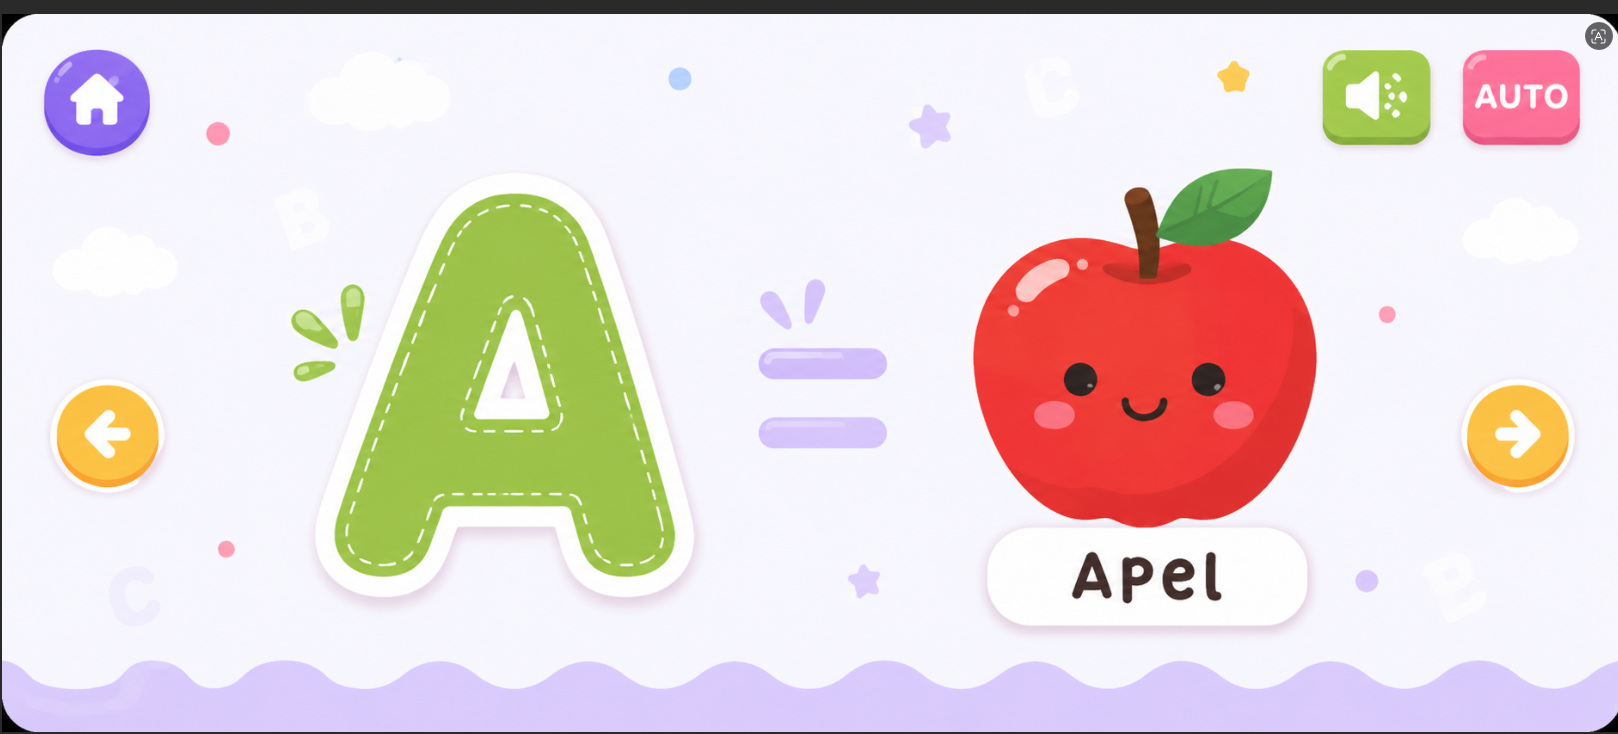
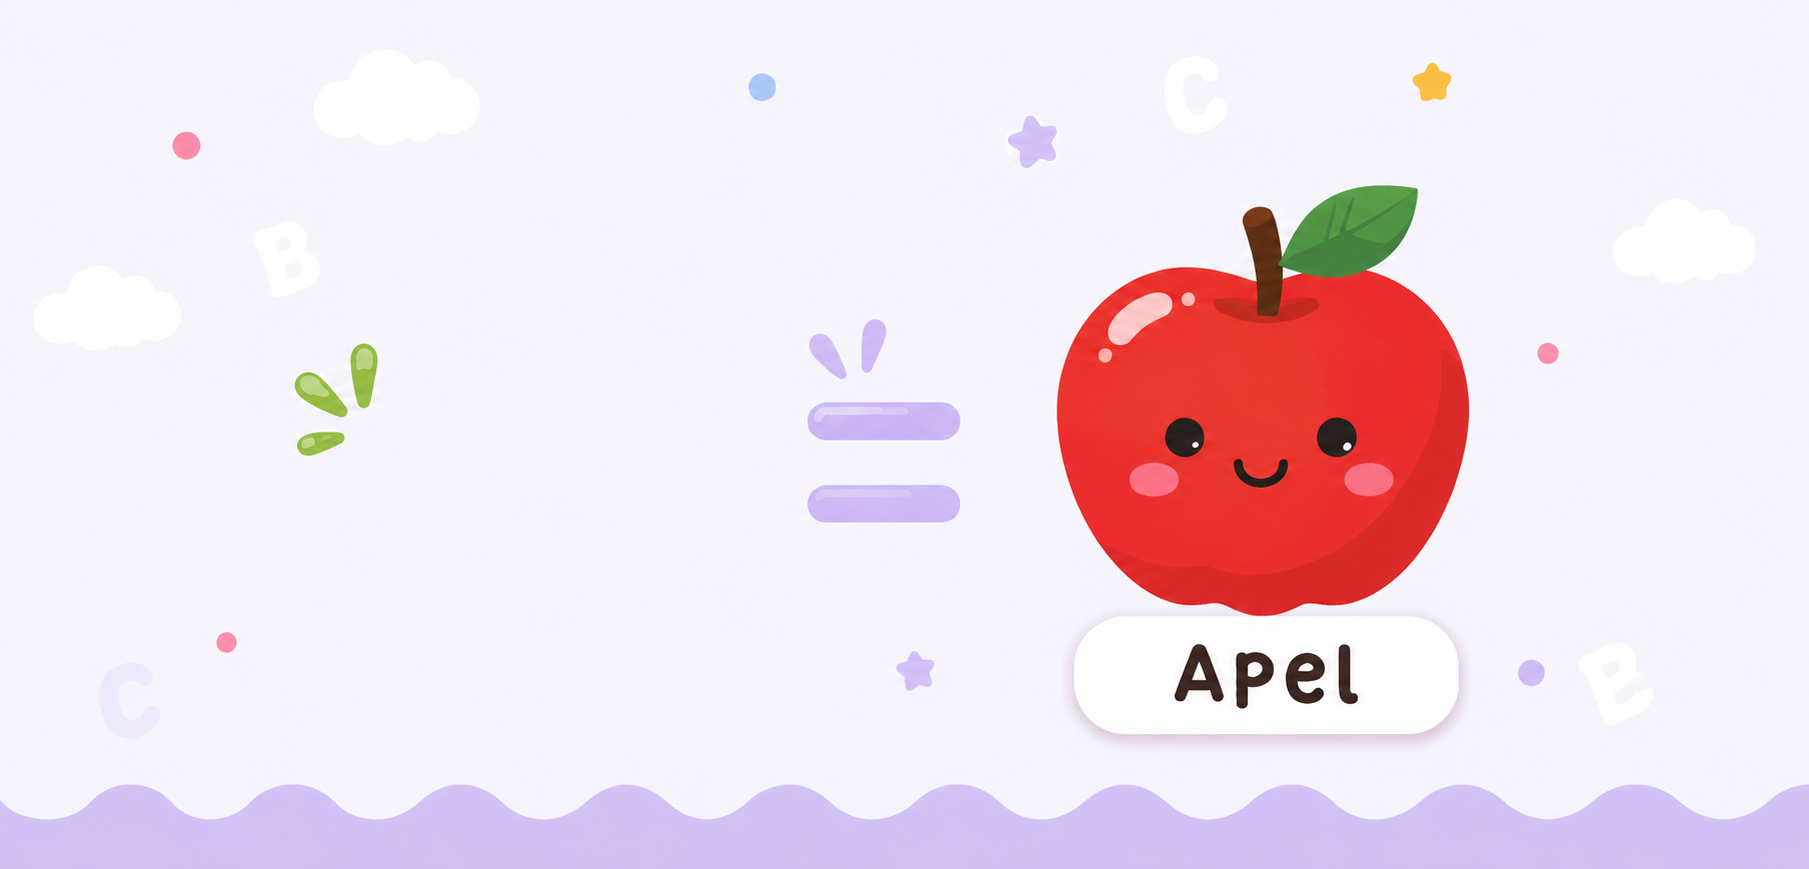
update harian

diff --git a/lib/screens/lesson/letter_lesson_screen.dart b/lib/screens/lesson/letter_lesson_screen.dart
@@ -1,4 +1,5 @@
 import 'package:flutter/material.dart';
+import 'package:flutter_svg/flutter_svg.dart';
 import 'package:flutter_tts/flutter_tts.dart';
 import '../../widgets/bounce_tap.dart';
 
@@ -19,6 +20,7 @@ class _LetterLessonScreenState extends State<LetterLessonScreen> {
       letter: 'A',
       word: 'apel',
       imageAsset: 'assets/images/letter_a_activity.png',
+      letterAsset: 'assets/images/A.svg',
     ),
     _LetterActivity(
       letter: 'B',
@@ -131,18 +133,23 @@ class _LetterLessonScreenState extends State<LetterLessonScreen> {
                 child: BounceTap(
                   semanticLabel: 'Huruf ${_currentLetter.letter}',
                   onTap: _speakCurrentLetter,
-                  child: DecoratedBox(
-                    decoration: BoxDecoration(
-                      shape: BoxShape.circle,
-                      boxShadow: [
-                        BoxShadow(
-                          color: const Color(0xFF8BC93B).withOpacity(0.16),
-                          blurRadius: 22 * scale,
-                          spreadRadius: 4 * scale,
+                  child: _currentLetter.letterAsset != null
+                      ? SvgPicture.asset(
+                          _currentLetter.letterAsset!,
+                          fit: BoxFit.contain,
+                        )
+                      : DecoratedBox(
+                          decoration: BoxDecoration(
+                            shape: BoxShape.circle,
+                            boxShadow: [
+                              BoxShadow(
+                                color: const Color(0xFF8BC93B).withOpacity(0.16),
+                                blurRadius: 22 * scale,
+                                spreadRadius: 4 * scale,
+                              ),
+                            ],
+                          ),
                         ),
-                      ],
-                    ),
-                  ),
                 ),
               ),
             ],
@@ -157,11 +164,13 @@ class _LetterActivity {
   final String letter;
   final String word;
   final String imageAsset;
+  final String? letterAsset;
 
   const _LetterActivity({
     required this.letter,
     required this.word,
     required this.imageAsset,
+    this.letterAsset,
   });
 }
 
